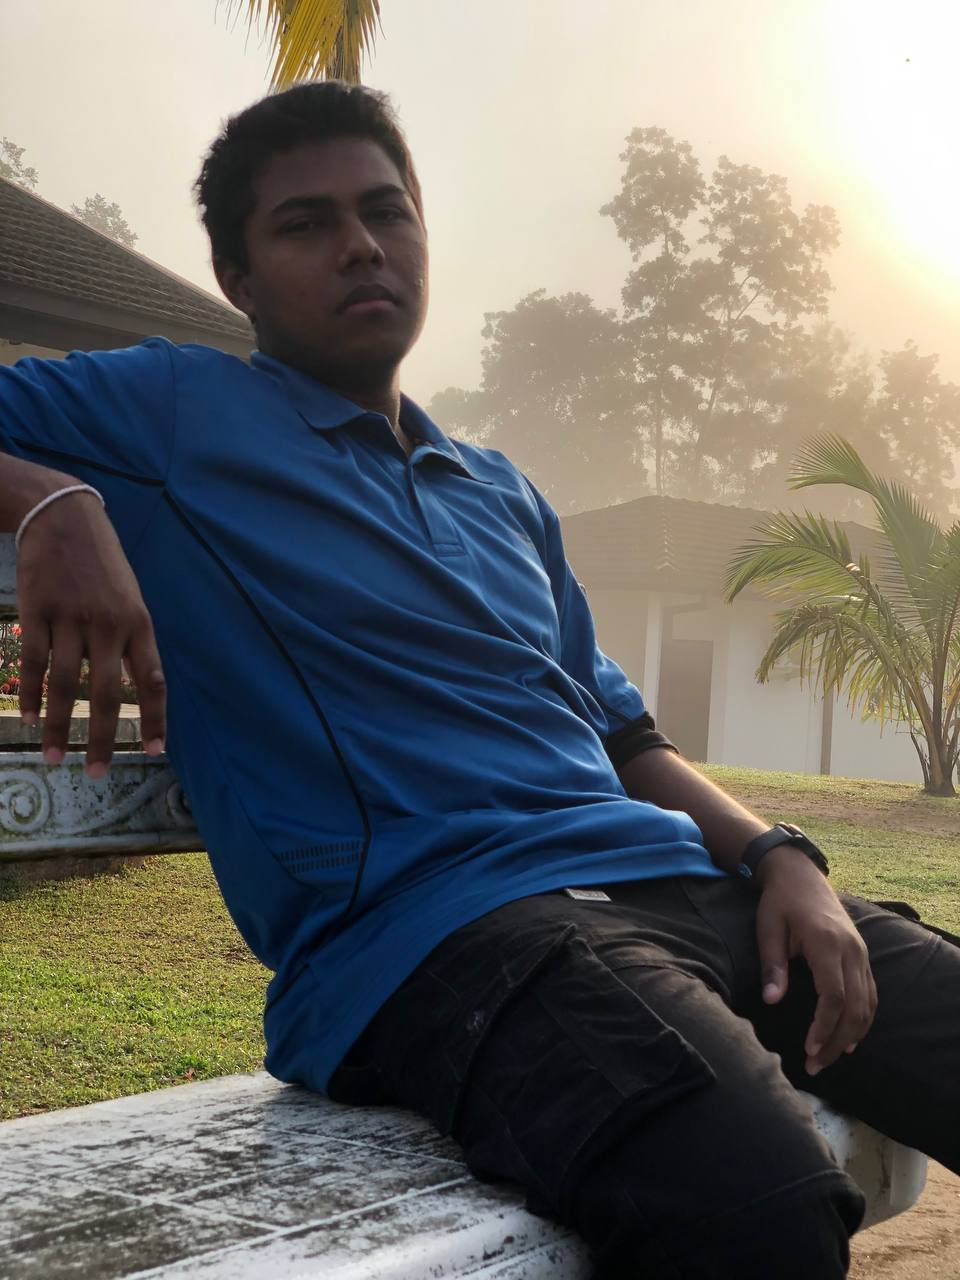
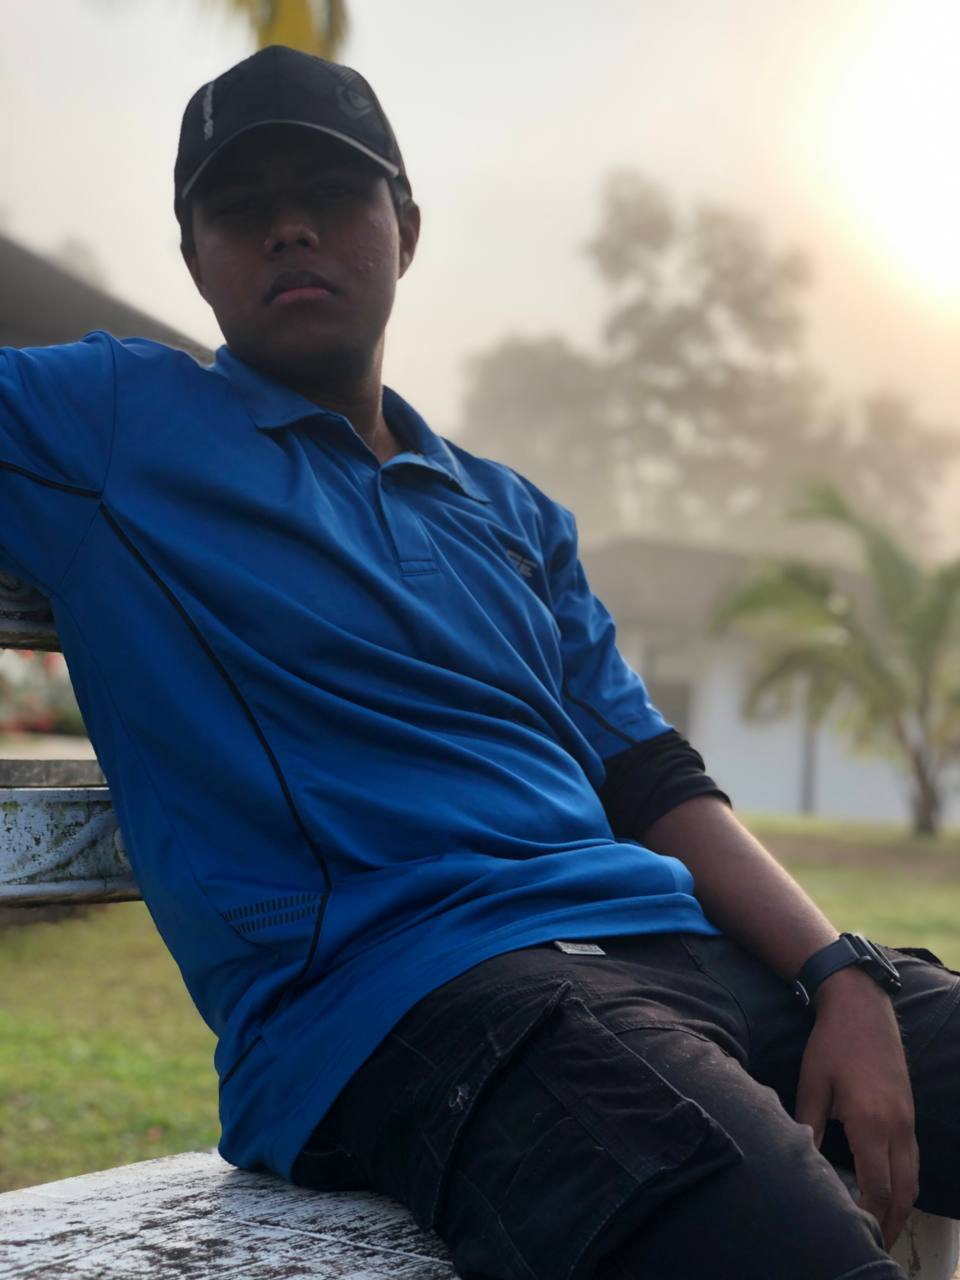
Add the feature where, when you hover cursor to the profile pic change it to another picture and revert back to the previous once the cursor move out from the profile pic.At the same keep the current effects and transitions in the profile picture . I want only switch between 2 pictures.

diff --git a/index.html b/index.html
@@ -239,6 +239,7 @@
             padding: 5px;
             background: rgba(0, 243, 255, 0.1);
             overflow: hidden; /* Important for slice effects */
+            aspect-ratio: 1 / 1; /* Keep it square-ish or rectangular, adjusts to image usually but safe to have context */
         }
 
         /* CYBERPUNK IMAGE STYLES & ANIMATIONS */
@@ -246,19 +247,46 @@
             width: 100%;
             height: auto;
             display: block;
+            object-fit: cover;
+            
             /* Initial "Encrypted" State (Blue filter) */
             filter: contrast(1.2) sepia(100%) hue-rotate(180deg) saturate(1.5);
             mix-blend-mode: luminosity;
+            
             /* When hovering stops, run ENCRYPT animation */
             animation: encrypt-glitch 0.3s cubic-bezier(0.25, 0.46, 0.45, 0.94) both;
         }
+
+        /* Default Image (Bottom layer) */
+        .cyber-img.default {
+            position: relative;
+            z-index: 1;
+        }
+
+        /* Hover Image (Top layer, hidden initially) */
+        .cyber-img.swap {
+            position: absolute;
+            top: 5px; /* Adjust for padding of container */
+            left: 5px;
+            width: calc(100% - 10px);
+            height: calc(100% - 10px);
+            z-index: 2;
+            opacity: 0;
+            transition: opacity 0.2s; /* Slight fade to smooth the transition */
+        }
         
         /* HOVER STATE: DECRYPT */
+        /* Apply glitch to BOTH images so they scramble together during the swap */
         .profile-container:hover .cyber-img {
             filter: contrast(1.1) brightness(1.2) saturate(1.2); 
             mix-blend-mode: normal;
             /* Run DECRYPT animation once */
             animation: decrypt-glitch 0.3s cubic-bezier(0.25, 0.46, 0.45, 0.94) both;
+        }
+
+        /* When hovering, show the second image */
+        .profile-container:hover .cyber-img.swap {
+            opacity: 1;
         }
 
         /* 1. DECRYPT ANIMATION (Mouse Enter) */
@@ -309,6 +337,7 @@
             position: absolute; top: 0; left: 0; width: 100%; height: 100%;
             background: linear-gradient(45deg, rgba(0, 243, 255, 0.1), rgba(255, 0, 255, 0.1));
             pointer-events: none;
+            z-index: 3;
         }
 
         @media (max-width: 768px) {
@@ -435,10 +464,13 @@
                         <p>System Check: <span class="blink">_</span></p>
                     </div>
 
-                    <!-- PROFILE IMAGE WITH CYBERPUNK FILTER -->
+                    <!-- PROFILE IMAGE WITH CYBERPUNK FILTER & SWAP -->
                     <div class="profile-container">
-                        <!-- Ensure image file is named profile.jpg -->
-                        <img src="profile.jpg" alt="Agent SAF" class="cyber-img">
+                        <!-- Image 1: Default (Blue shirt) -->
+                        <img src="profile.jpg" alt="Agent SAF Default" class="cyber-img default">
+                        
+                        <!-- Image 2: Hover (New image) - Rename your new photo to profile-2.jpg -->
+                        <img src="profile-2.jpg" alt="Agent SAF Hover" class="cyber-img swap">
                     </div>
                 </div>
 
